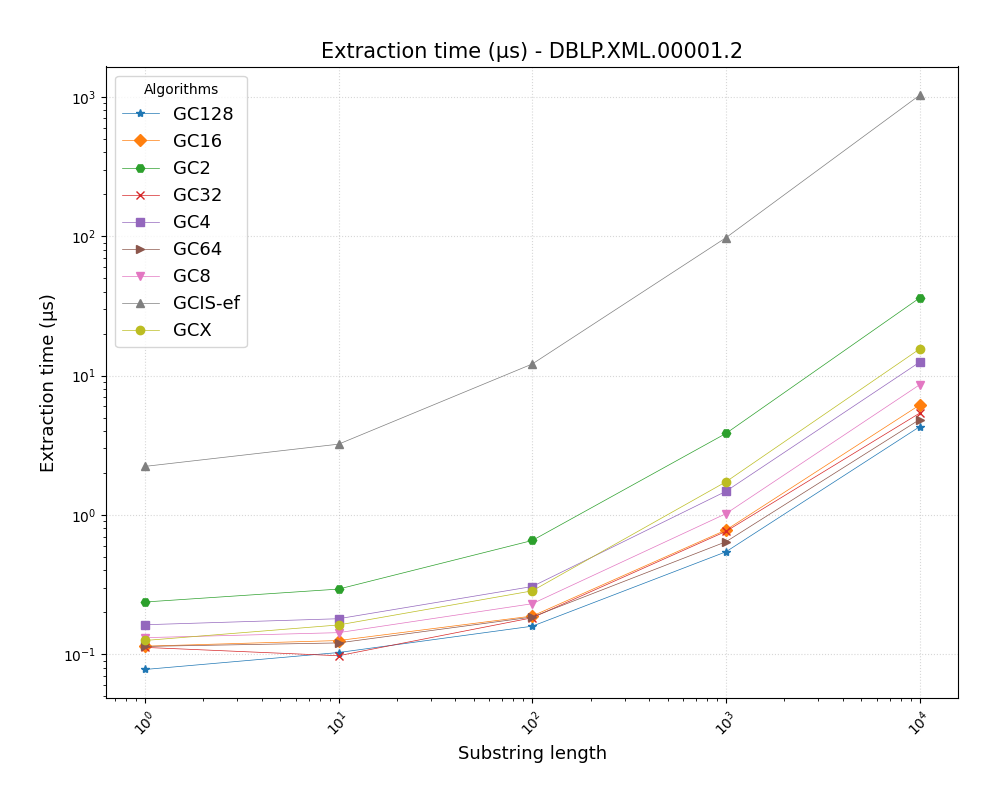
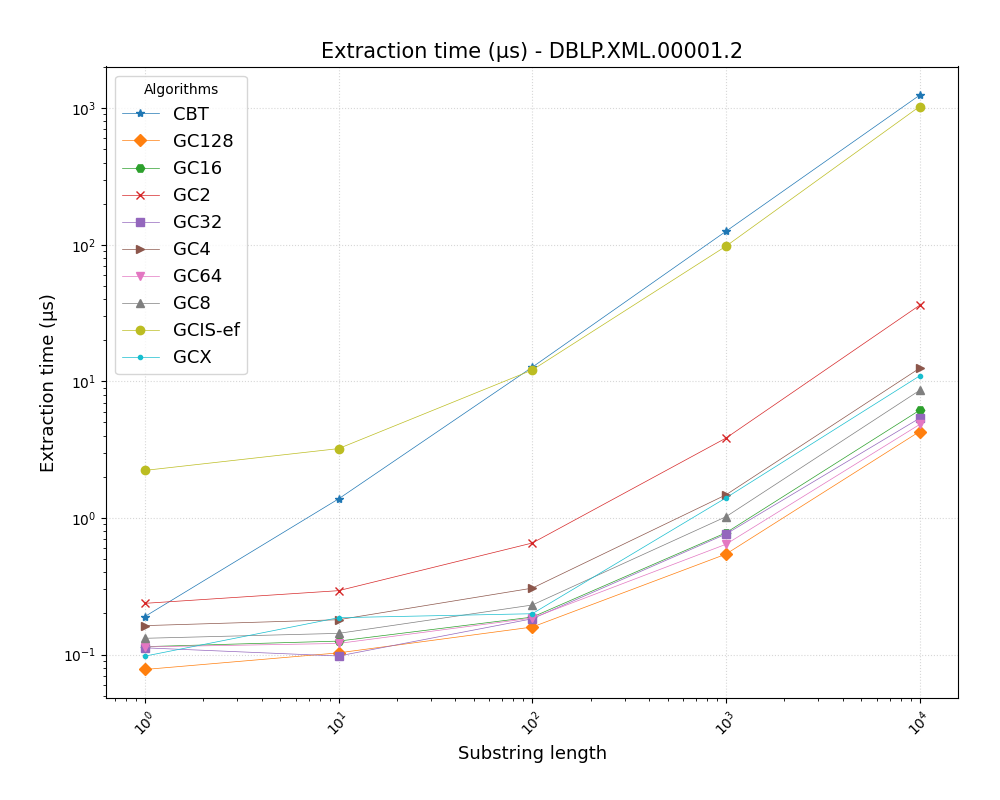
adds extract graph to cbt

diff --git a/scripts/graphs/report.py b/scripts/graphs/report.py
@@ -86,7 +86,7 @@ def prepare_dataset(df: pd.DataFrame, operation: str):
     df['algorithm'] = df['algorithm'].replace({
         'REPAIR-PlainSlp_32Fblc': 'RePair (32Fblc)',
         'REPAIR-PlainSlp_FblcFblc': 'RePair (FblcFblc)',
-        'GCX-y8': 'GCX'
+        'GCX-y16': 'GCX'
     })
     
     df.loc[:, 'file'] = df['file'].str.replace('pseudo-real-', '', regex=False) \
@@ -97,7 +97,8 @@ def prepare_dataset(df: pd.DataFrame, operation: str):
         'GC2', 'GC4', 'GC8', 'GC16', 'GC32', 'GC64', 'GC128',
         'GCX',
         'bzip2', '7zip', 'GCIS-ef',
-        'RePair (32Fblc)', 'RePair (FblcFblc)'
+        'RePair (32Fblc)', 'RePair (FblcFblc)',
+        'CBT'
     }
     df = df[df['algorithm'].isin(keep)].copy()
 
